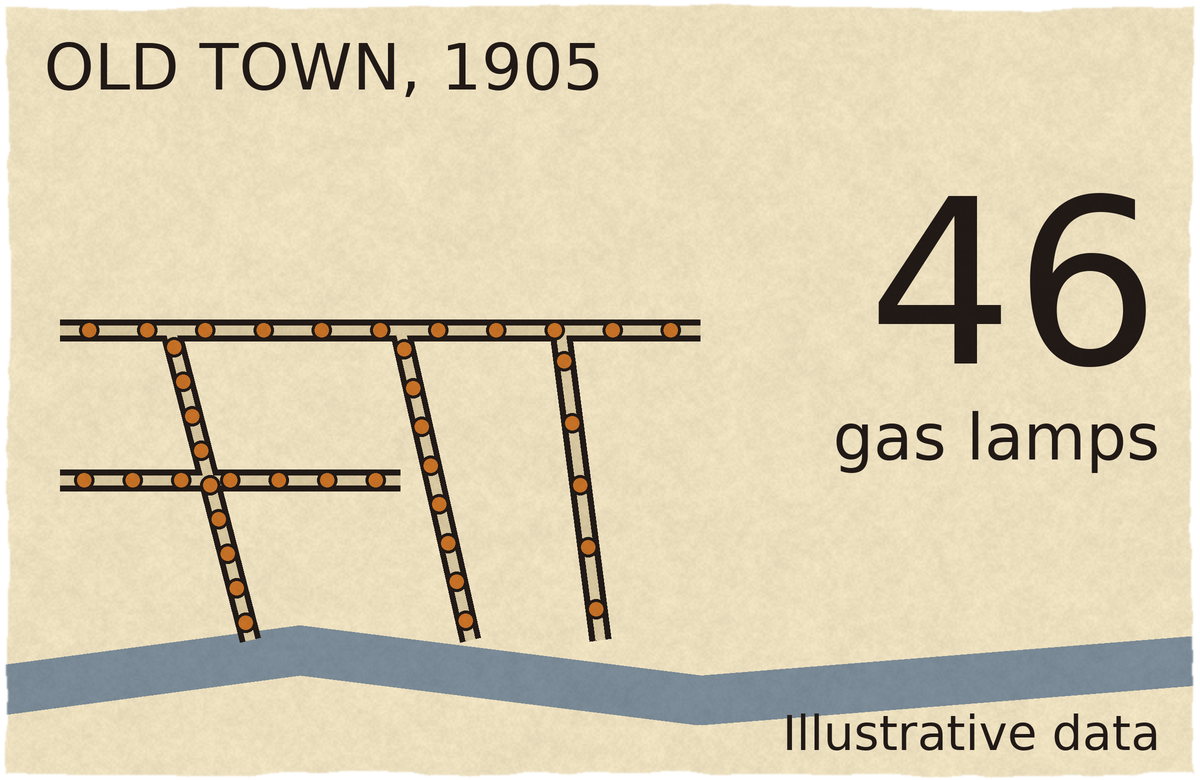
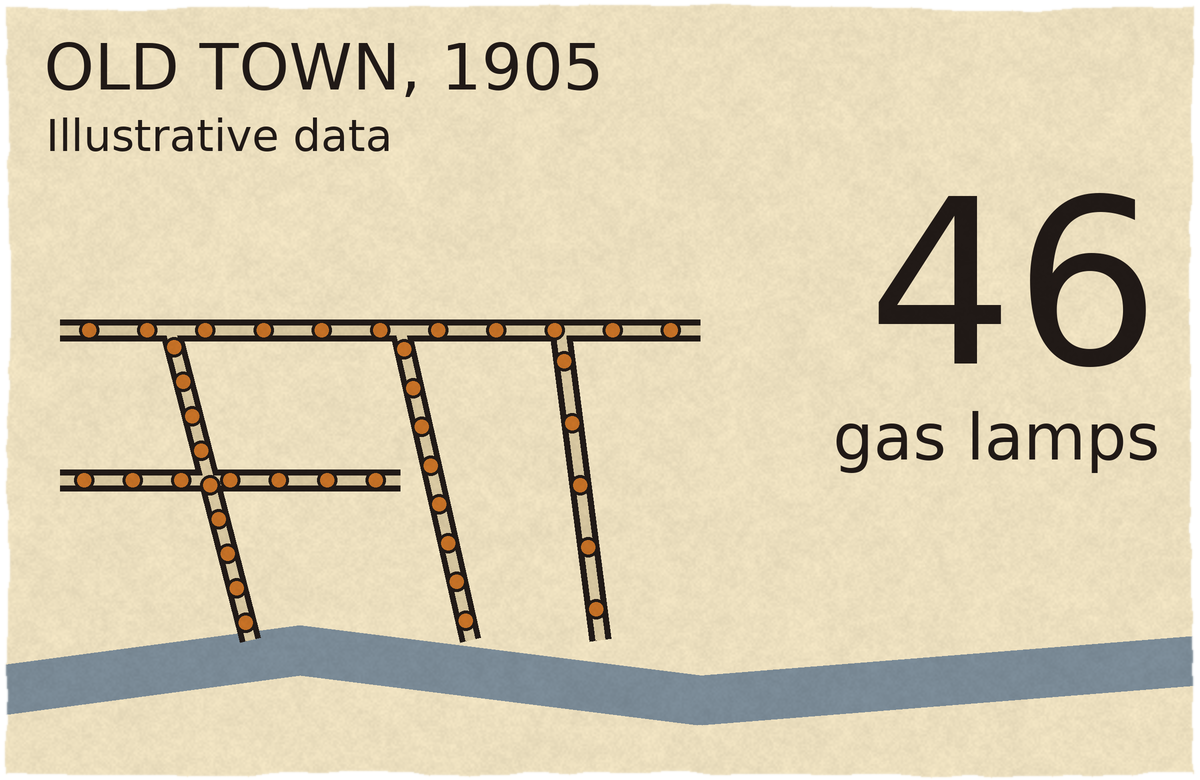
M3 B3 v2: vũng sáng lp20 nhắm cao hơn (tiêu đề tấm nằm trong vùng sáng), nhãn Illustrative data tấm bản đồ không đè sông
Claude-Session: https://claude.ai/code/session_013vfSagBSEu3FHp4au7vwuU

Changed region(s): [[0.6475, 0.9231, 0.9867, 0.9846], [0.0308, 0.1538, 0.3392, 0.2154]]

diff --git a/design/m3/thu-phong-cach/lamp_shot.js b/design/m3/thu-phong-cach/lamp_shot.js
@@ -64,7 +64,7 @@ export const LAMP_SHOT = { id: 'lp20', scene: 0, t0: 0, t1: 20, size: 'MWS', ang
           const a = t < LP.tWalk ? 1 : 0.45; L.rotation.z = L.userData.rz0 + 0.10 * a * Math.sin(2 * Math.PI * 0.85 * t); L.rotation.x = L.userData.rx0 + 0.05 * a * Math.sin(2 * Math.PI * 0.85 * t + 1.1); }   // đèn lồng đung đưa
         lamp(ida, f, 1);
         const lan = ida.props.lantern; lan.updateMatrixWorld(true); (lan.userData.lightAnchor || lan).getWorldPosition(lp);
-        spot.position.copy(lp); spot.target.position.set(valAt(LP.aim, t), lp.y + 0.35, WALL_Z); spot.target.updateMatrixWorld(true);
+        spot.position.copy(lp); spot.target.position.set(valAt(LP.aim, t), lp.y + (V2 ? 0.75 : 0.35), WALL_Z); spot.target.updateMatrixWorld(true);
         spot.intensity = LP.spotI * ease(clamp01((t - 0.3) / 1.2)) * (1 + 0.03 * Math.sin(f * 0.37));
       } };
   } };

diff --git a/design/m3/thu-phong-cach/tuong_phan_clip.py b/design/m3/thu-phong-cach/tuong_phan_clip.py
@@ -1,0 +1,16 @@
+"""Cine Lab · M3 B3 v2 — đo tương phản chữ TRONG VÙNG SÁNG của đoạn 20 s (720p): khung lấy từ mp4, ô bao quanh nhóm chữ/số;
+màu chữ = trung vị 3 % điểm tối nhất, nền = trung vị 40 % điểm sáng nhất trong ô (tỉ lệ WCAG).
+/opt/cine/bin/python design/m3/thu-phong-cach/tuong_phan_clip.py <clip.mp4>
+"""
+import io, subprocess, sys
+import numpy as np
+from PIL import Image
+sys.path.insert(0, __import__('os').path.dirname(__file__)); from data_frame import ratio
+v = sys.argv[1]
+BOX = [(10.0, 'số "46" + "gas lamps" (tấm bản đồ)', (465, 300, 575, 375)), (10.0, 'chữ "OLD TOWN, 1905"', (195, 275, 340, 305)),
+       (15.0, 'số trên cột "14", "9" + năm (tấm biểu đồ)', (660, 300, 980, 470)), (15.0, 'số "14→1"', (880, 265, 990, 305))]
+for t, name, b in BOX:
+    r = subprocess.run(['ffmpeg', '-nostdin', '-v', 'error', '-ss', f'{t}', '-i', v, '-frames:v', '1', '-f', 'image2pipe', '-vcodec', 'png', '-'], capture_output=True, check=True)
+    a = np.asarray(Image.open(io.BytesIO(r.stdout)).convert('RGB').crop(b)).reshape(-1, 3).astype(int); s = a.sum(1); o = np.argsort(s)
+    fg = tuple(int(x) for x in np.median(a[o[: max(1, len(o) * 3 // 100)]], axis=0)); bg = tuple(int(x) for x in np.median(a[o[-len(o) * 40 // 100:]], axis=0))
+    print(f'{t:4.1f} s · {name}: chữ {fg} / nền {bg} → {ratio(fg, bg):.1f}:1')

diff --git a/design/m3/thu-phong-cach/data_frame.py b/design/m3/thu-phong-cach/data_frame.py
@@ -204,7 +204,7 @@ def panel_map_v2(seed=11):
             d.ellipse([x - r, y - r, x + r, y + r], fill=AMBER, outline=INK, width=3 * K)
     text(d, (1160 * K, 150 * K), '46', 230 * K, INK, 'ra')
     text(d, (1160 * K, 400 * K), 'gas lamps', 64 * K, INK, 'ra')
-    text(d, (1160 * K, 750 * K), 'Illustrative data', 48 * K, INK, 'rs')
+    text(d, (46 * K, 110 * K), 'Illustrative data', 44 * K, INK)
     im = im.resize((W, H), Image.LANCZOS); im = paperize(im, seed, k=0.05, fib=0.03); im.putalpha(deckle(W, H, seed + 5)); return im
 
 def panel_chart_v2(seed=23):
